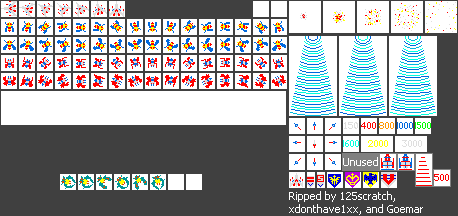
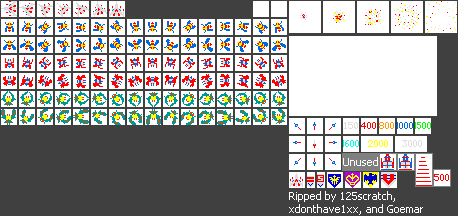
Implemented Boss

diff --git a/Galaga/EnemyManager.cpp b/Galaga/EnemyManager.cpp
@@ -25,9 +25,11 @@ EnemyManager::EnemyManager()
 	, m_AlteringBetweenSpritesInterval{1.0f}
 	, m_AlteringBetweenSpritesTimer{0.0f}
 	, m_UpperSpriteActive{true}
+	, m_SpawnBoss{ false }
 {
 	TxtParser::GetInstance().Parse("../Data/Formations/Formation1Bees.txt", m_BeeFormationLocations);
 	TxtParser::GetInstance().Parse("../Data/Formations/Formation1Butterflies.txt", m_ButterflyFormationLocations);
+	TxtParser::GetInstance().Parse("../Data/Formations/Formation1Boss.txt", m_BossFormationLocations);
 }
 
 void EnemyManager::Update(float deltaT)
@@ -101,7 +103,12 @@ void EnemyManager::SpawnAliens(float deltaT)
 			const Vector3 spawnPos = { 0,surface->h - 50.0f,0 };
 
 			m_SpawnEnemyTimer = 0.0f;
-			SpawnButterfly<Dive_LeftToMiddle>(spawnPos);
+			if (m_SpawnBoss)
+				SpawnBoss<Dive_LeftToMiddle>(spawnPos);
+			else
+				SpawnButterfly<Dive_LeftToMiddle>(spawnPos);
+
+			m_SpawnBoss = !m_SpawnBoss;
 			m_EnemySpawnedCounter++;
 		}
 	}
@@ -160,7 +167,28 @@ void EnemyManager::SpawnButterfly(const Willem::Vector2& pos)
 }
 
 template <typename T>
-void EnemyManager::SpawnBoss(const Willem::Vector2& pos) {}
+void EnemyManager::SpawnBoss(const Willem::Vector2& pos) 
+{
+	auto boss = std::make_shared<Willem::GameObject>("Boss");
+
+	const SDL_Rect srcRect = { 1,91,16,16 };
+	const SDL_Rect halfSize = { srcRect.x / 2,srcRect.y / 2,srcRect.w / 2,srcRect.h / 2 };
+	const SDL_Surface* surface = Minigin::GetWindowSurface();
+	const Vector3 spawnPos = { surface->w / 2.0f - halfSize.w,0,0 };
+
+	boss->AddComponent(new RenderComponent(srcRect));
+	boss->SetTexture("Galaga2.png");
+	boss->AddComponent(new TransformComponent(Vector3{ pos.x,pos.y,1.0f }, float(GAMESCALE)));
+	boss->AddComponent(new HealthComponent(2, false));
+	boss->AddComponent(new AIFlyComponent(boss.get(), new SpawnDiveState(boss.get(), new T(boss.get())), srcRect.y));
+	boss->AddTag("Boss");
+	boss->AddTag("Alien");
+
+	CollisionManager::GetInstance().AddCollider(boss);
+	SceneManager::GetInstance().GetCurrentScene()->Add(boss);
+	m_pEnemies.push_back(boss);
+}
+
 
 void EnemyManager::AlterBetweenSprites(float deltaT)
 {
@@ -197,8 +225,6 @@ void EnemyManager::AlterBetweenSprites(float deltaT)
 	m_UpperSpriteActive = !m_UpperSpriteActive;
 }
 
-
-
 void EnemyManager::ClaimSpotInBeeFormation(Willem::GameObject* go)
 {
 	if (m_pBeeFormation.size() < m_BeeFormationLocations.size())
@@ -209,9 +235,10 @@ void EnemyManager::ClaimSpotInButterflyFormation(Willem::GameObject* go)
 	if (m_pButterflyFormation.size() < m_ButterflyFormationLocations.size())
 		m_pButterflyFormation.push_back(go);
 }
-void EnemyManager::ClaimSpotInBossFormation(Willem::GameObject*)
+void EnemyManager::ClaimSpotInBossFormation(Willem::GameObject* go)
 {
-
+	if (m_pBossFormation.size() < m_BossFormationLocations.size())
+		m_pBossFormation.push_back(go);
 }
 
 void EnemyManager::UnclaimSpotInFormation(const Willem::GameObject* go)
@@ -295,7 +322,24 @@ Vector2 EnemyManager::GetButterflyFormationPosition(const Willem::GameObject* go
 
 	return m_ButterflyFormationLocations[index];
 }
-Vector2 EnemyManager::GetBossFormationPosition(const Willem::GameObject*) const
+Vector2 EnemyManager::GetBossFormationPosition(const Willem::GameObject* go) const
 {
-	return Vector2{ 0,0 };
+	int index = -1;
+
+	for (int i = 0; i < m_pBossFormation.size(); i++)
+	{
+		if (m_pBossFormation[i] == go)
+		{
+			index = i;
+		}
+	}
+
+
+	if (index == -1) // NO SPOTS LEFT
+	{
+		std::cout << "No spot left in formation for boss to park in" << std::endl;
+		return Vector2(0, 0);
+	}
+
+	return m_BossFormationLocations[index];
 }

diff --git a/Galaga/FormationState.cpp b/Galaga/FormationState.cpp
@@ -40,6 +40,8 @@ void FormationState::Enter()
 		desiredPosition = EnemyManager::GetInstance().GetBeeFormationPosition(m_pGameObject);
 	else if (m_pGameObject->HasTag("Butterfly"))
 		desiredPosition = EnemyManager::GetInstance().GetButterflyFormationPosition(m_pGameObject);
+	else if (m_pGameObject->HasTag("Boss"))
+		desiredPosition = EnemyManager::GetInstance().GetBossFormationPosition(m_pGameObject);
 
 	m_pGameObject->GetComponent<TransformComponent>()->SetPosition(desiredPosition);
 	

diff --git a/Galaga/EnemyManager.h b/Galaga/EnemyManager.h
@@ -74,5 +74,6 @@ private:
 	const float m_AlteringBetweenSpritesInterval;
 	float m_AlteringBetweenSpritesTimer;
 	bool m_UpperSpriteActive;
+	bool m_SpawnBoss;
 };
 
